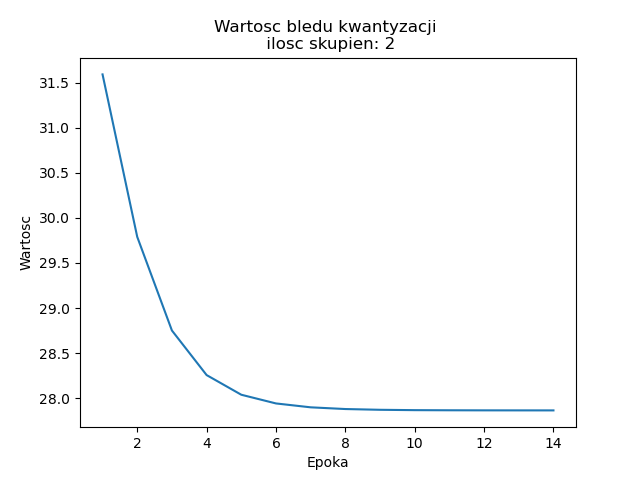
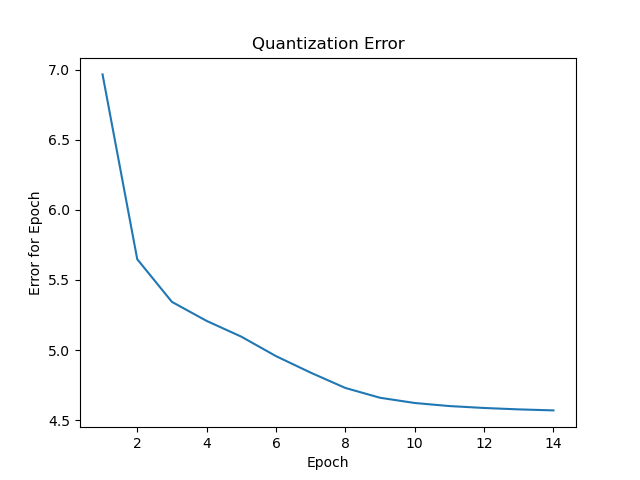
fix

diff --git a/SelfOrganizingMap/KMeans/zad4.py b/SelfOrganizingMap/KMeans/zad4.py
@@ -198,7 +198,7 @@ class KMean:
         plt.plot(centers_to_plot[:, 0], centers_to_plot[:, 1], ".", markersize=9, color="black")
         plt.xlabel('x')
         plt.ylabel('y')
-        plt.title("epoka " + str(self.epoch_counter))
+        plt.title("epoch " + str(self.epoch_counter))
         plt.savefig(str(self.epoch_counter) + ".png")
         plt.clf()
         self.images.append(imageio.imread(str(self.epoch_counter) + ".png"))
@@ -210,9 +210,9 @@ class KMean:
     # funkcja plotuje wykres bledu
     def plot_error_graph(self):
         plt.plot(self.plot_error[0], self.plot_error[1])
-        plt.xlabel('Epoka')
-        plt.ylabel('Wartosc')
-        plt.title("Wartosc bledu kwantyzacji \n ilosc skupien: " + str(self.number_of_centroids))
+        plt.xlabel('Epoch')
+        plt.ylabel('Error for Epoch')
+        plt.title("Quantization Error")
         plt.savefig("wykres.png")
         plt.clf()
 
@@ -244,7 +244,7 @@ def generate_random_points_in_range(x_min, x_max, y_min, y_max):
 def main():
     NUMBER_OF_CENTROIDS = 12
     NUMBER_OF_EPOCH = 14
-    
+
     kMean = KMean(points_matrix=create_points("Danetestowe.txt", is_comma=True),
                   number_of_centroids=NUMBER_OF_CENTROIDS, number_of_epoch=NUMBER_OF_EPOCH)
 
